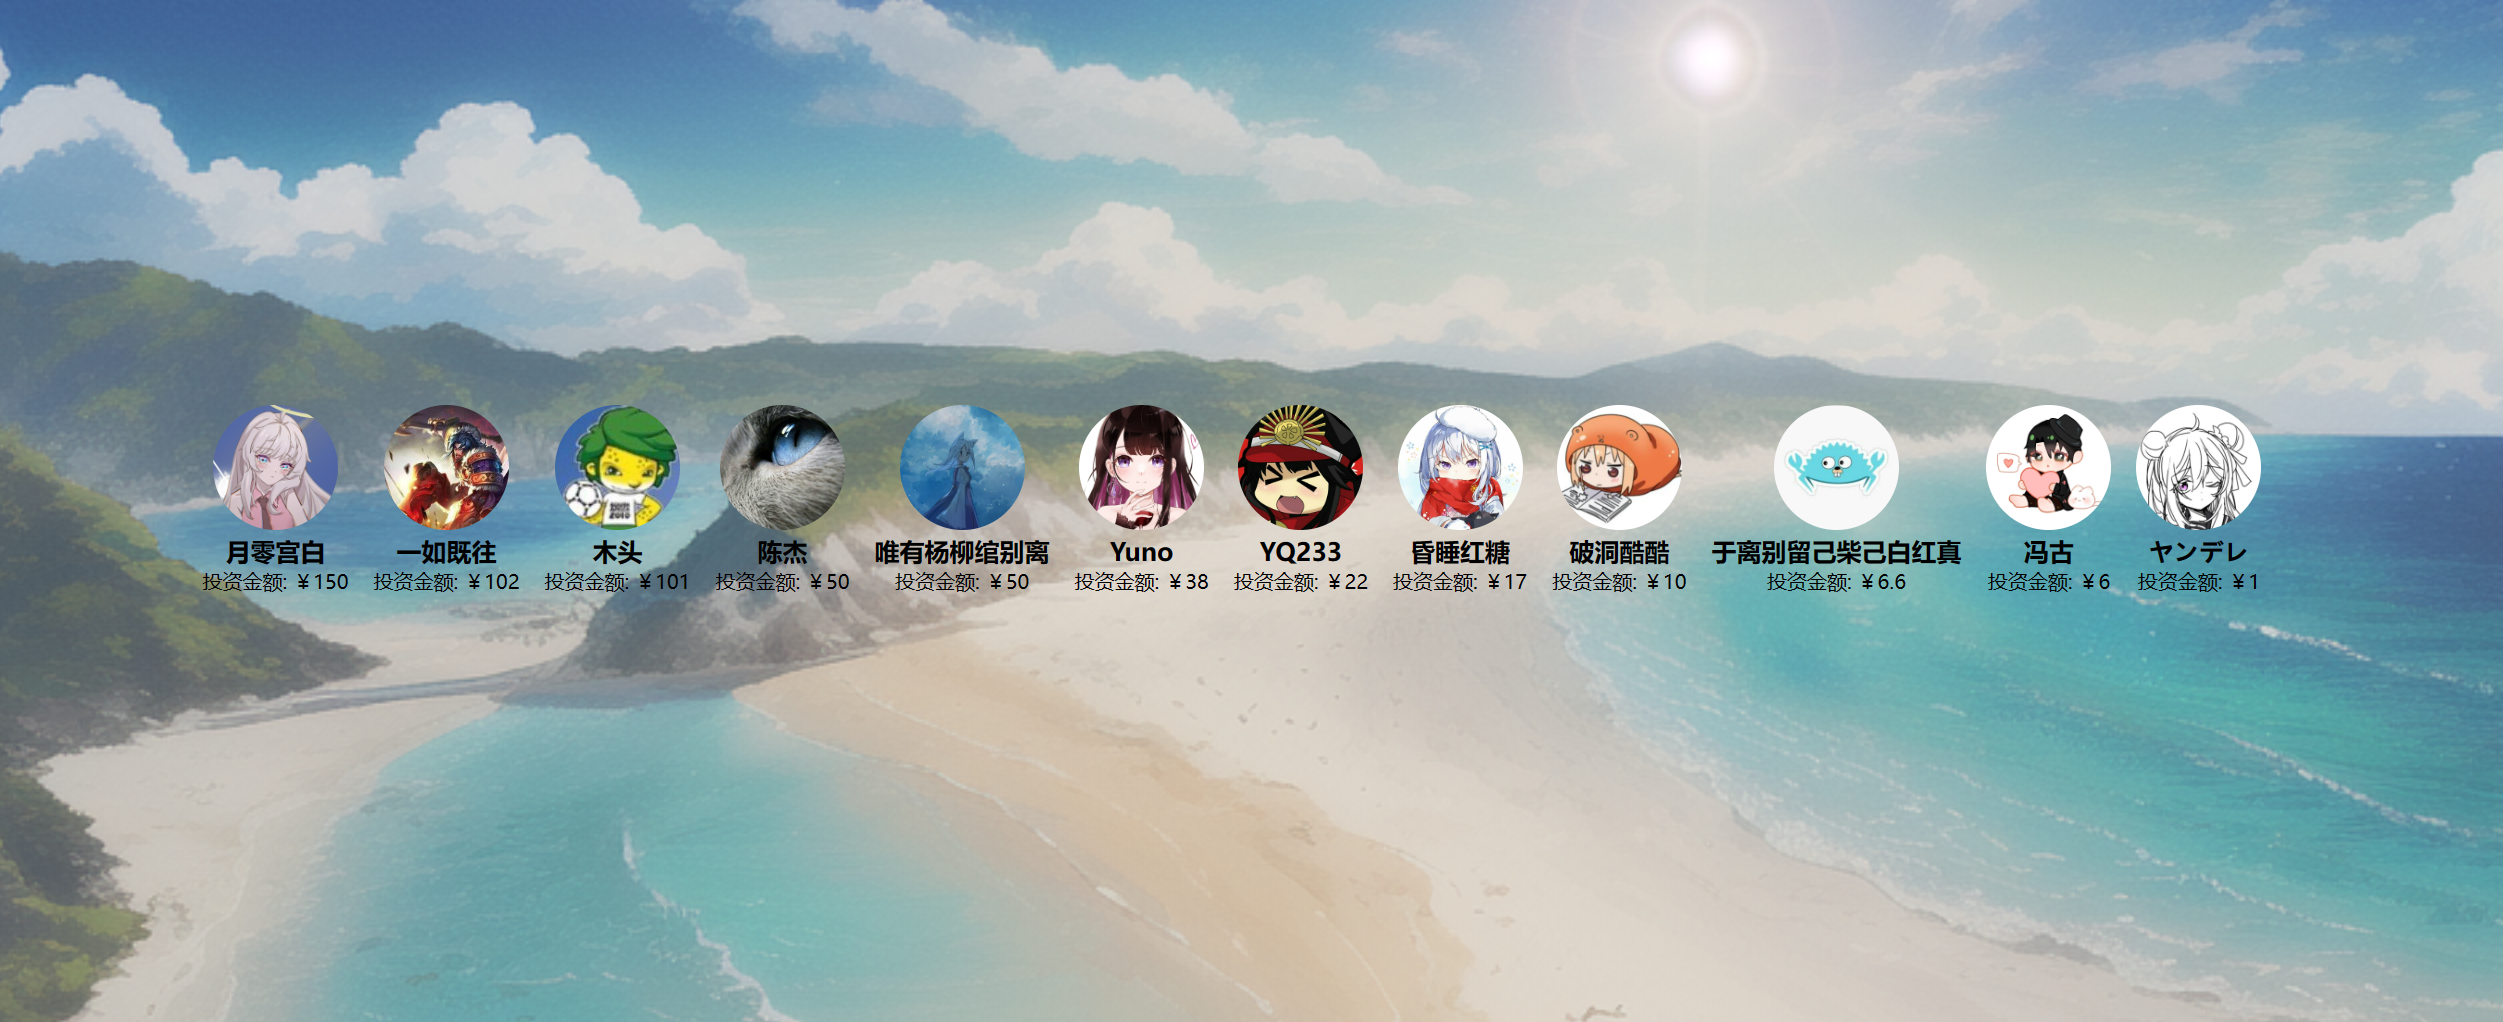
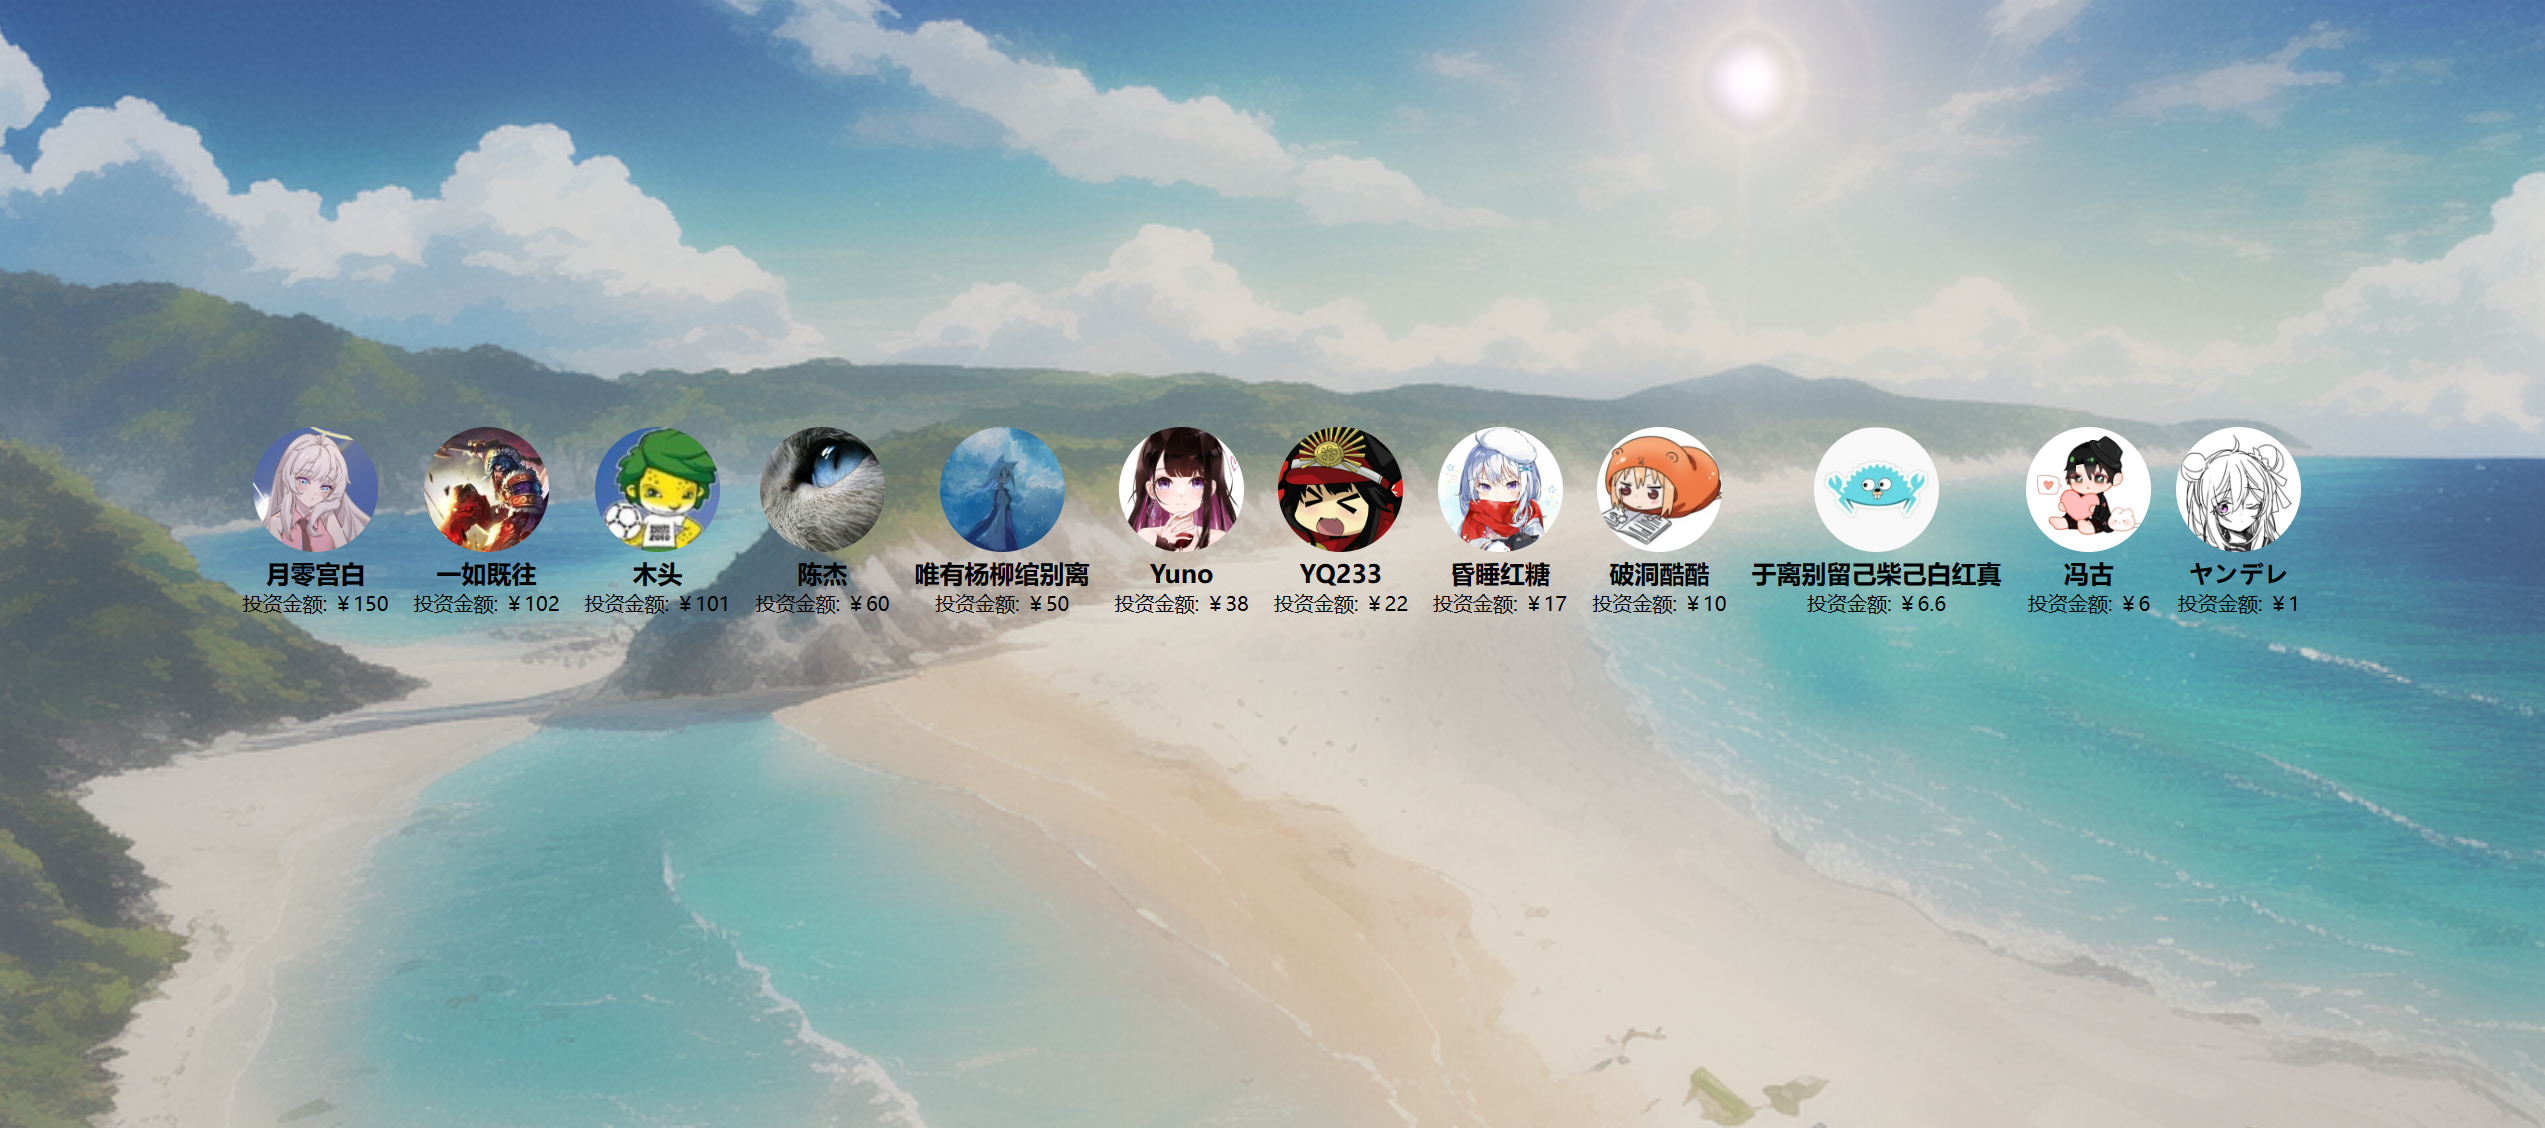
更新投资人信息

diff --git a/docs/投资人/index.html b/docs/投资人/index.html
@@ -69,7 +69,7 @@
         {
             name: "陈杰",
             avatar: "https://images.cnblogs.com/cnblogs_com/ikaros-521/2328032/o_230719120711_QQ%E5%9B%BE%E7%89%8720230719200510.jpg",
-            amount: "￥50"
+            amount: "￥60"
         },
         {
             name: "唯有杨柳绾别离",
